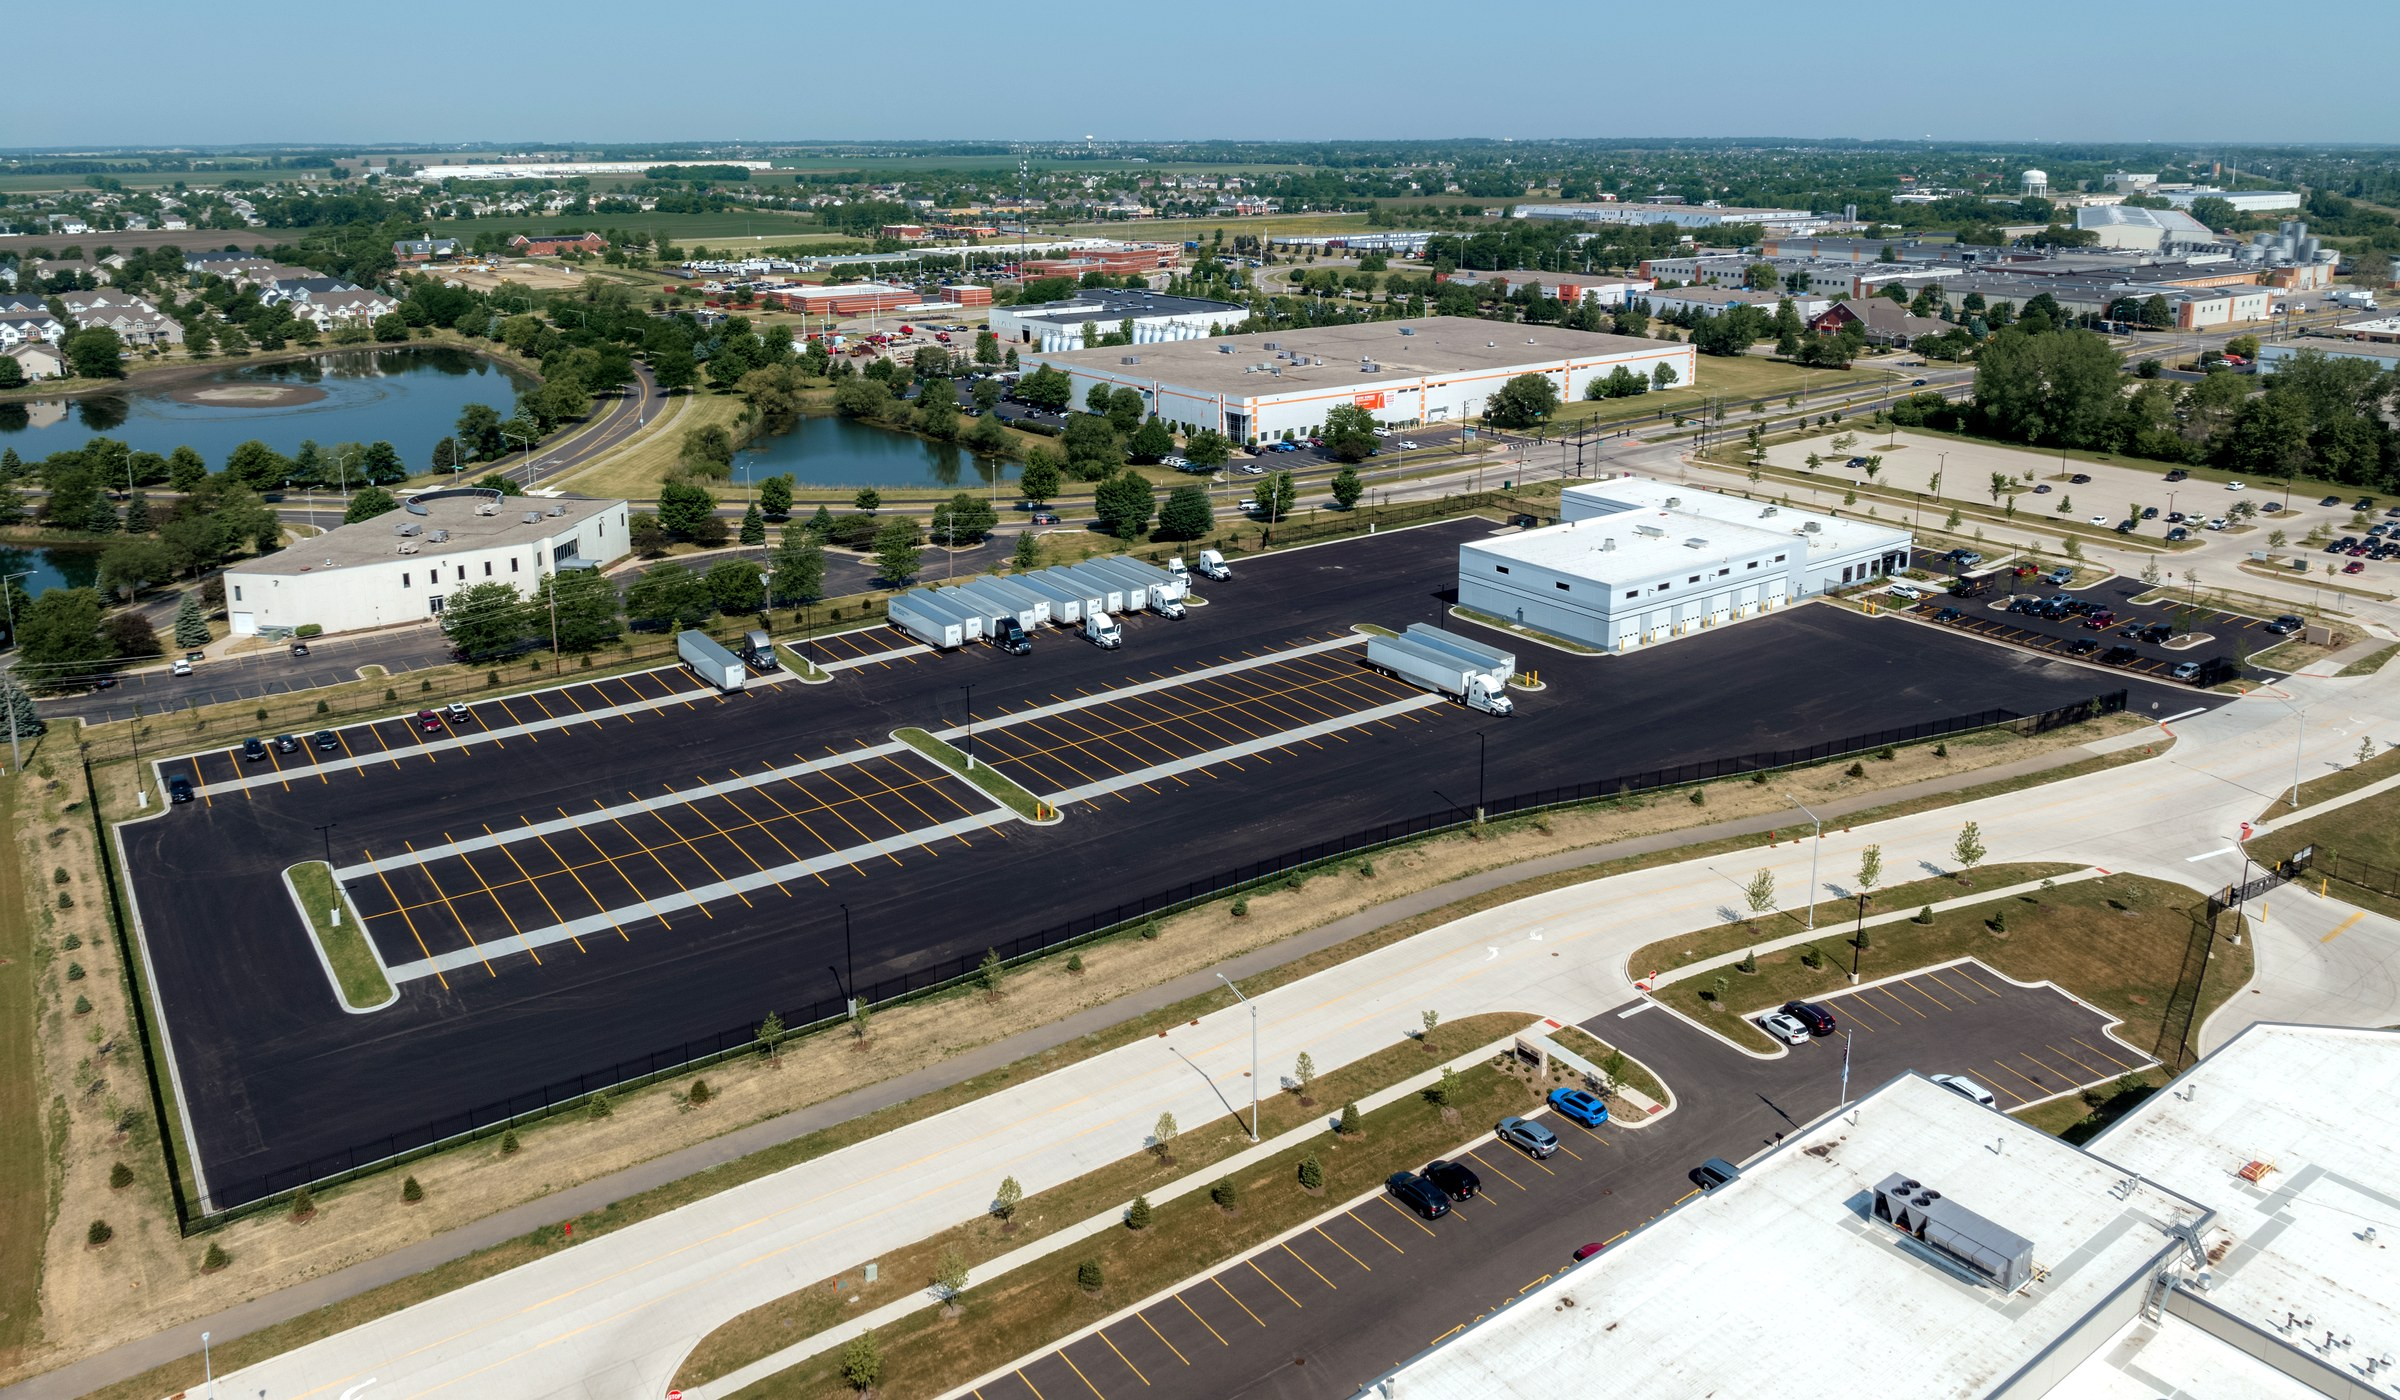
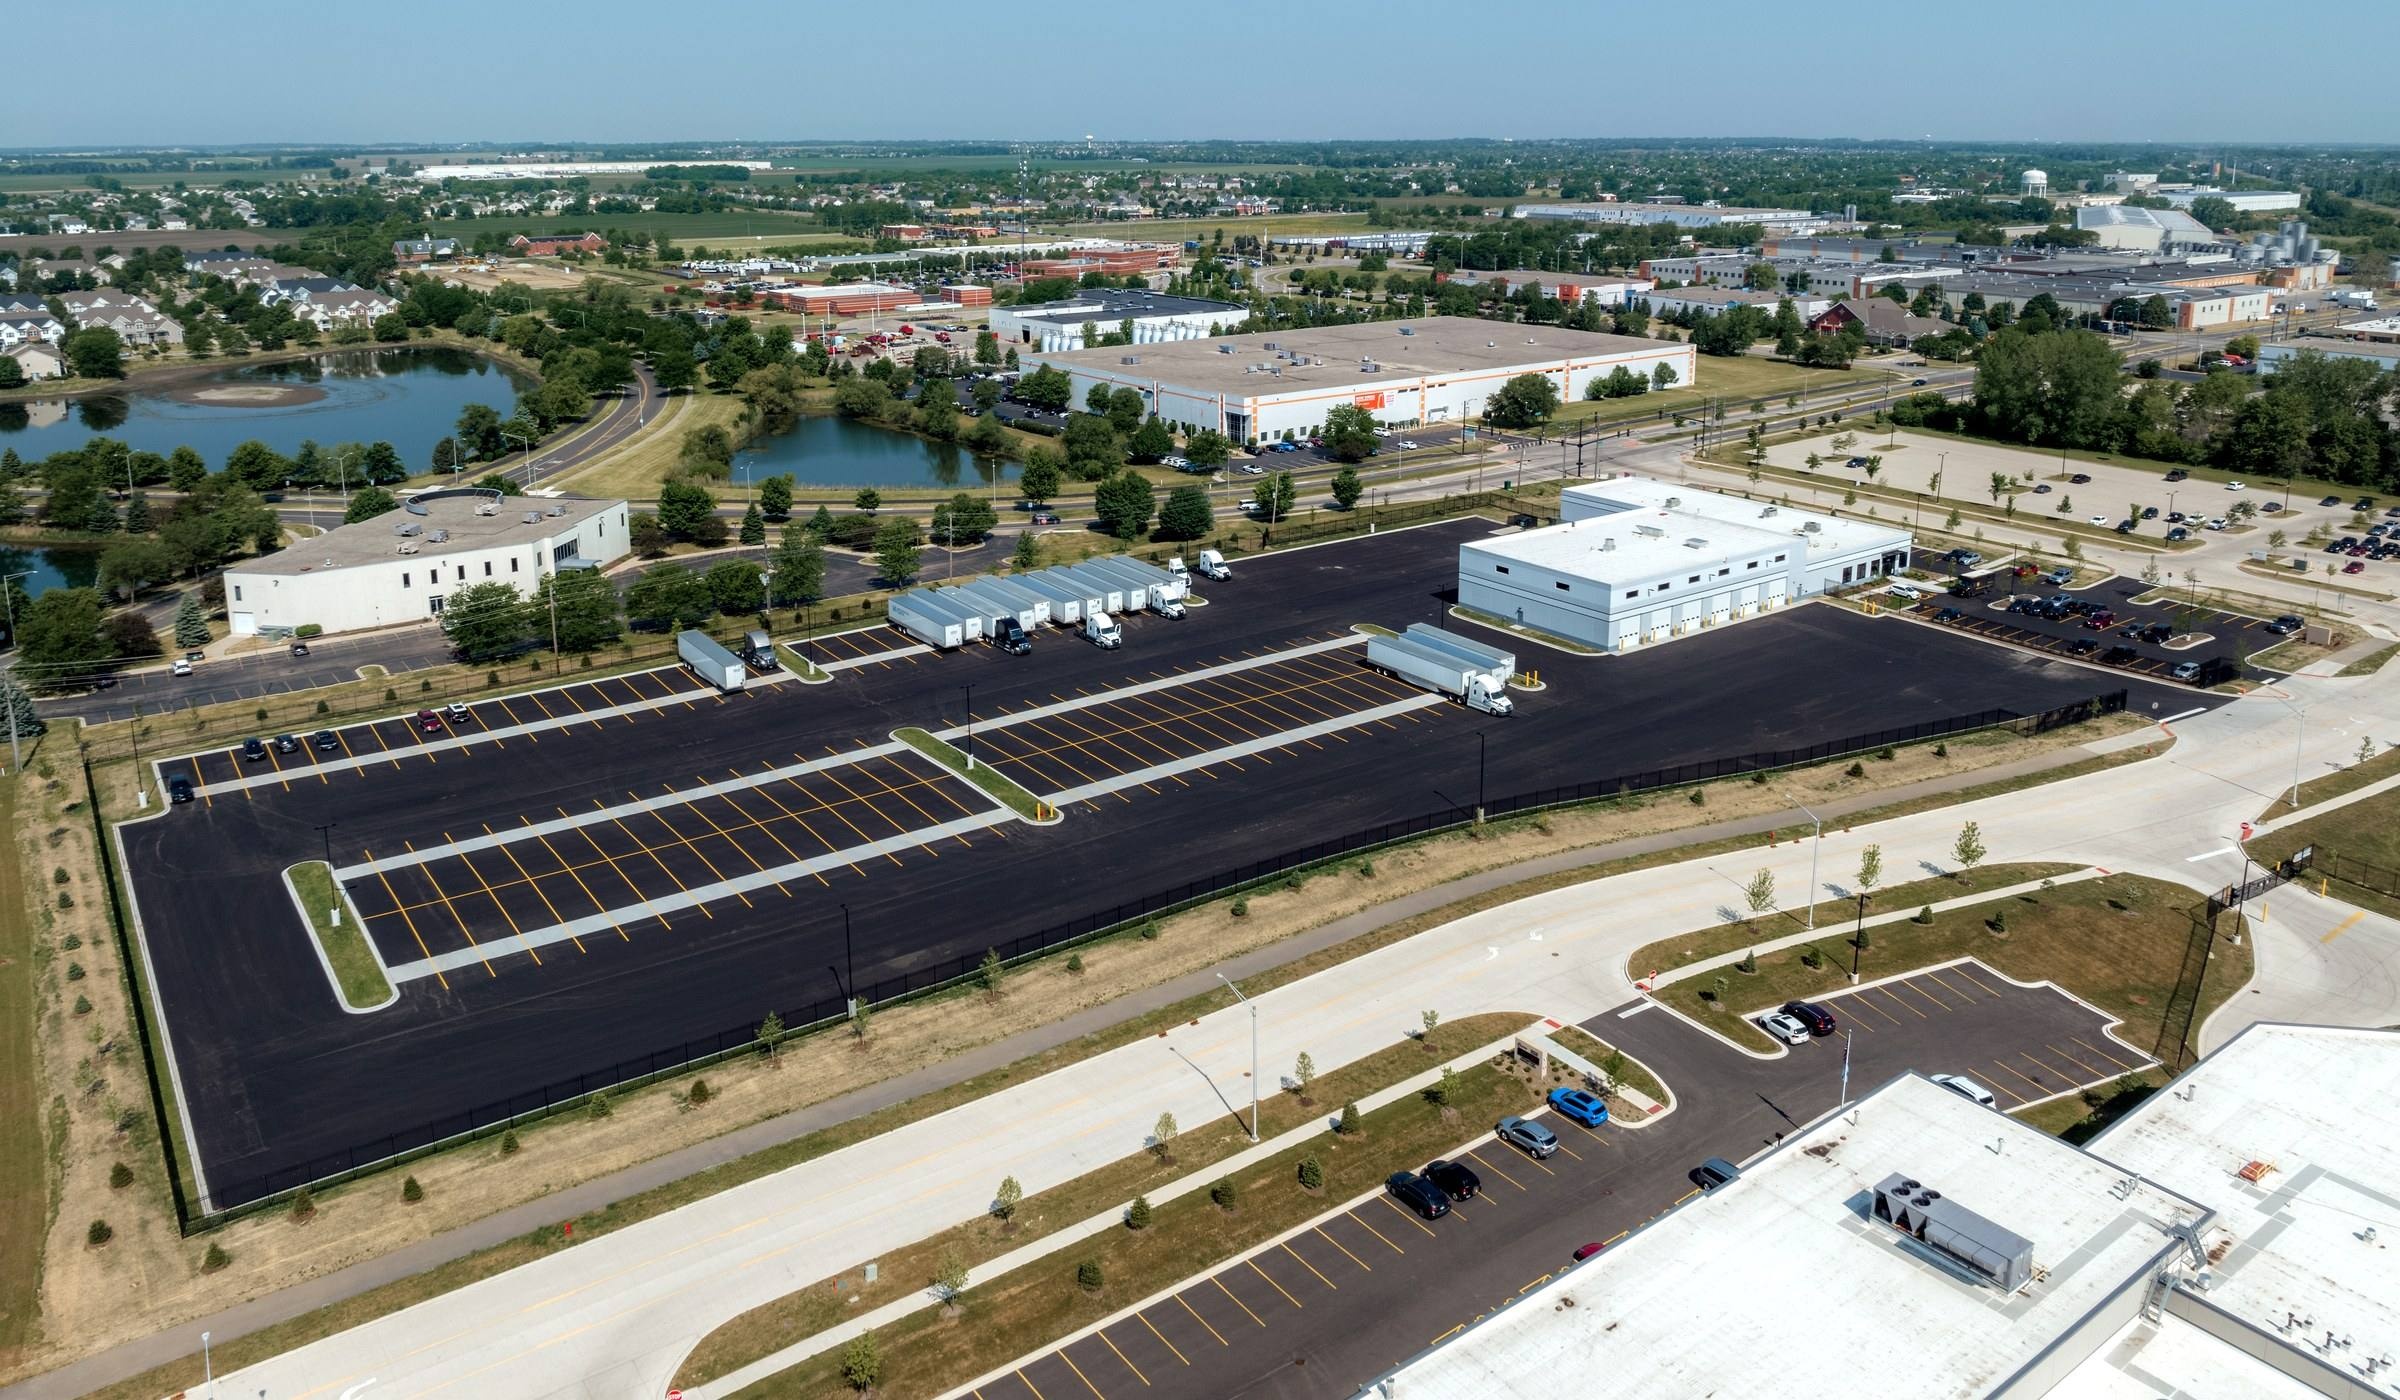
Restore old HTML home visuals

diff --git a/src/styles/global.css b/src/styles/global.css
@@ -712,58 +712,199 @@ select:focus-visible {
   padding: 16px;
 }
 
-.home-lane-card {
-  min-height: 260px;
-  padding: 26px;
+.home-equipment-section {
+  padding: 112px 0;
+}
+
+.home-equipment-heading {
+  display: grid;
+  grid-template-columns: minmax(0, 1fr) 2fr;
+  gap: 56px;
+  align-items: start;
+  margin-bottom: 28px;
+}
+
+.home-equipment-heading > div {
+  position: sticky;
+  top: 120px;
+}
+
+.home-equipment-heading h2,
+.home-map-copy h2 {
+  margin: 0;
+  color: var(--color-ink);
+  font: italic 900 clamp(28px, 3.2vw, 44px)/1.15 var(--font-display);
+  text-transform: uppercase;
+}
+
+.home-equipment-heading h2 span,
+.home-map-copy h2 span {
+  color: var(--color-blue);
+}
+
+.home-equipment-heading > p,
+.home-map-copy > p:not(.eyebrow) {
+  max-width: 380px;
+  margin: 0;
+  color: var(--color-muted);
+  font-size: 14px;
+  line-height: 1.6;
+}
+
+.equipment-card-grid {
+  display: grid;
+  grid-template-columns: repeat(2, minmax(0, 1fr));
+  gap: 22px;
+}
+
+.equipment-photo-card {
+  overflow: hidden;
   border: 1px solid var(--color-line);
+  border-radius: var(--radius-panel);
+  background: var(--color-surface);
+  box-shadow: 0 18px 44px -36px rgb(var(--c)/.9);
+}
+
+.equipment-photo-card img {
+  display: block;
+  width: 100%;
+  aspect-ratio: 16 / 10;
+  object-fit: cover;
+  background: var(--color-canvas);
+}
+
+.equipment-photo-card__body {
+  display: grid;
+  gap: 12px;
+  padding: 22px 20px;
+}
+
+.equipment-photo-card__body .eyebrow,
+.equipment-photo-card__body h3,
+.equipment-photo-card__body p {
+  margin: 0;
+}
+
+.equipment-photo-card__body h3 {
+  color: var(--color-ink);
+  font: italic 800 clamp(20px, 2.5vw, 26px)/1.2 var(--font-display);
+  text-transform: uppercase;
+}
+
+.equipment-photo-card__body p {
+  color: var(--color-dim);
+  font-size: 14px;
+  line-height: 1.5;
+}
+
+.equipment-photo-card__meta {
+  display: flex;
+  align-items: center;
+  justify-content: space-between;
+  gap: 16px;
+  padding: 14px 20px;
+  border-top: 1px solid var(--color-line-soft);
+}
+
+.equipment-photo-card__meta span {
+  color: var(--color-dim);
+  font-size: 11px;
+  font-weight: 800;
+  letter-spacing: 0.1em;
+  text-transform: uppercase;
+}
+
+.equipment-photo-card__meta strong {
+  color: var(--color-ink);
+  font-size: 14px;
+  text-align: right;
+}
+
+.home-equipment-link {
+  margin: 24px 0 0;
+  text-align: center;
+}
+
+.home-map-section {
+  border-block: 1px solid var(--color-line);
+}
+
+.home-map-grid {
+  display: grid;
+  grid-template-columns: minmax(280px, 420px) 1fr;
+  gap: 56px;
+  align-items: center;
+}
+
+.home-map-copy {
+  display: grid;
+  gap: 18px;
+}
+
+.home-hq-card {
+  display: flex;
+  align-items: center;
+  gap: 14px;
+  margin-top: 10px;
+  padding: 12px 14px;
+  border: 1px solid var(--color-line);
+  border-radius: var(--radius-control);
+  background: var(--color-surface);
+}
+
+.home-hq-card span {
+  display: grid;
+  width: 34px;
+  height: 34px;
+  flex: 0 0 auto;
+  place-items: center;
+  border-radius: 999px;
+  background: var(--color-blue);
+  color: var(--color-canvas);
+  font-weight: 900;
+}
+
+.home-hq-card p {
+  margin: 0;
+  color: var(--color-muted);
+  font-size: 14px;
+  line-height: 1.45;
+}
+
+.home-hq-card strong {
+  color: var(--color-ink);
+}
+
+.home-map-frame {
+  position: relative;
+  min-height: 330px;
+  border-radius: var(--radius-panel);
+  background: url("/images/site/mns1-home-lane-map.svg") center / contain no-repeat;
+}
+
+.home-map-frame::before {
+  position: absolute;
+  inset: 0;
   background:
     linear-gradient(rgb(var(--i)/.035) 1px, transparent 1px),
-    linear-gradient(90deg, rgb(var(--i)/.035) 1px, transparent 1px),
-    radial-gradient(circle at 52% 44%, rgb(var(--a)/.24), transparent 42%),
-    rgb(var(--c)/.62);
-  background-size: 42px 42px, 42px 42px, auto, auto;
+    linear-gradient(90deg, rgb(var(--i)/.035) 1px, transparent 1px);
+  background-size: 42px 42px;
+  content: "";
+  pointer-events: none;
 }
 
-.home-lane-card > span {
-  color: var(--color-blue);
-  font-size: 12px;
-  font-weight: 800;
-  letter-spacing: 0.12em;
-  text-transform: uppercase;
-}
-
-.home-lane-card strong {
-  display: block;
-  max-width: 300px;
-  margin-top: 12px;
-  color: var(--color-ink);
-  font: italic 900 36px/1 var(--font-display);
-  text-transform: uppercase;
-}
-
-.home-lane-card__grid {
-  display: grid;
-  grid-template-columns: repeat(4, minmax(0, 1fr));
-  gap: 8px;
-  margin-top: 28px;
-}
-
-.home-lane-card__grid span {
-  display: grid;
-  min-height: 38px;
-  place-items: center;
-  border: 1px solid rgb(var(--a)/.28);
-  background: rgb(var(--a)/.08);
+.home-map-legend {
+  display: flex;
+  align-items: center;
+  justify-content: space-between;
+  gap: 16px;
+  margin-top: 14px;
   color: var(--color-muted);
-  font-size: 12px;
-  font-weight: 800;
-  transition: transform 180ms cubic-bezier(0.2, 0.7, 0.2, 1), border-color 180ms, background 180ms;
+  font-size: 13px;
 }
 
-.home-lane-card__grid span:hover {
-  transform: translateY(-3px);
-  border-color: rgb(var(--a)/.8);
-  background: rgb(var(--a)/.2);
+.home-map-legend strong {
+  color: var(--color-ink);
 }
 
 .map-panel__caption {
@@ -1084,8 +1225,42 @@ select:focus-visible {
   .hero-grid,
   .page-hero > .wrap:has(.hero-snapshot),
   .requirement-cards,
+  .home-equipment-heading,
+  .equipment-card-grid,
+  .home-map-grid,
   .split {
     grid-template-columns: 1fr;
+  }
+
+  .home-equipment-section {
+    padding: 72px 0;
+  }
+
+  .home-equipment-heading {
+    gap: 16px;
+    margin-bottom: 22px;
+  }
+
+  .home-equipment-heading > div {
+    position: static;
+  }
+
+  .home-map-grid {
+    gap: 28px;
+  }
+
+  .home-map-frame {
+    min-height: 280px;
+  }
+
+  .home-map-legend,
+  .equipment-photo-card__meta {
+    align-items: flex-start;
+    flex-direction: column;
+  }
+
+  .equipment-photo-card__meta strong {
+    text-align: left;
   }
 
   .hero-snapshot {

diff --git a/tests/visual/performance-smoke.spec.ts b/tests/visual/performance-smoke.spec.ts
@@ -8,7 +8,7 @@ const priorityRoutes = ["/", "/jobs/", "/apply/", "/shippers/", "/lanes/", "/con
 const budgets = {
   htmlBytes: 45 * 1024,
   richHtmlBytes: 160 * 1024,
-  cssBytes: 24 * 1024,
+  cssBytes: 27 * 1024,
   imageBytes: 1024 * 1024,
   totalDistBytes: 1.5 * 1024 * 1024,
   routeLoadMs: 1_500,
@@ -77,10 +77,11 @@ test.describe("performance smoke", () => {
         stylesheets: document.querySelectorAll('link[rel="stylesheet"]').length,
         images: document.images.length,
       }));
+      const imageBudget = route === "/" ? 4 : 3;
 
       expect(runtime.scriptCount, `${route} should not need runtime JavaScript`).toBe(0);
       expect(runtime.stylesheets, `${route} stylesheet count`).toBeLessThanOrEqual(1);
-      expect(runtime.images, `${route} image count`).toBeLessThanOrEqual(3);
+      expect(runtime.images, `${route} image count`).toBeLessThanOrEqual(imageBudget);
     });
   }
 });